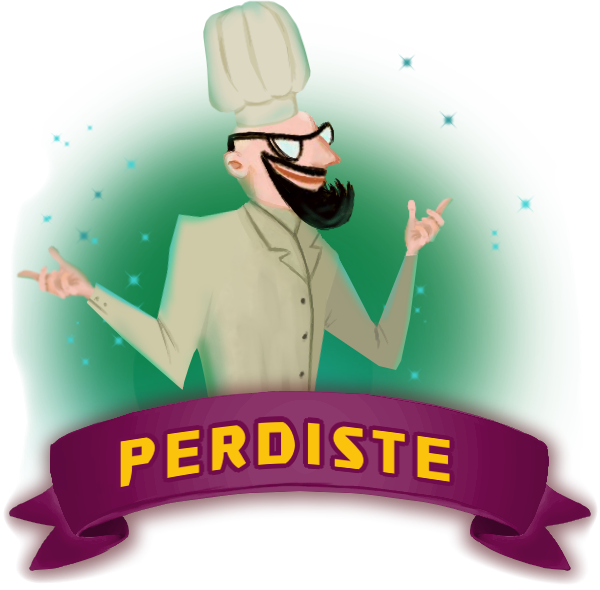
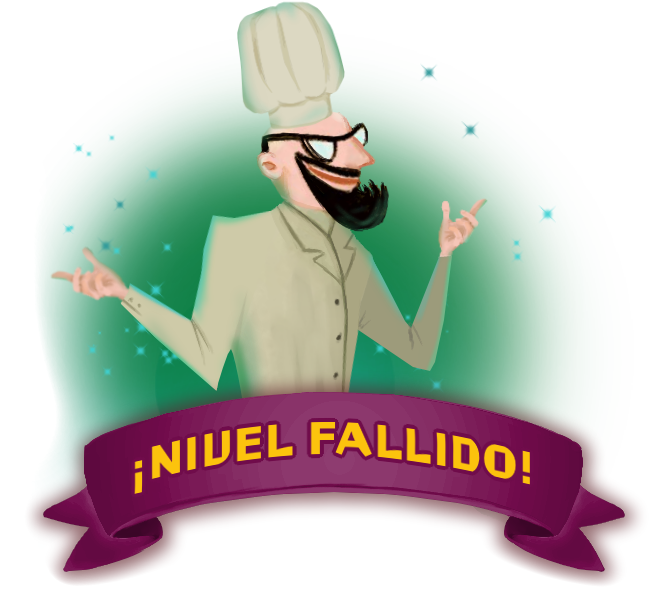
idiomas

diff --git a/Scene7a.js b/Scene7a.js
@@ -7,7 +7,40 @@ class Scene7a extends Phaser.Scene {
         var Transparencia = this.add.image(400, 300, "transparencia");
 
             this.add.image(640, 490, 'menuPausa').setScale(.7).setInteractive({cursor: 'context-menu'})
-            this.add.image(640, 180, 'tituloNivelPerdido').setScale(.6)
+            
+            var menuPrincipal = this.add.image(645, 580, 'botonReintentar1').setScale(.6)
+            var menuPrincipal2 = this.add.image(645, 580, 'botonReintentar2').setScale(.6)
+            
+            var botonReintentar1 = this.add.image(643, 510, 'botonReintentar1').setScale(.6)
+            var botonReintentar2 = this.add.image(643, 510, 'botonReintentar2').setScale(.6)
+           
+
+
+            if (idioma === 1)
+            {
+                this.add.image(640, 180, 'tituloNivelPerdido').setScale(0.7)
+                scorefinaltext = this.add.text(560, 425, "Puntos " + score, { fontSize: '40px', fill: '#02854F', fontFamily: 'Boogaloo'});
+                text = this.add.text(581, 570, "MENÚ PRINCIPAL", { fontSize: '20px', fill: '#6F0C49', fontFamily: 'BOOGALOO'})
+                text = this.add.text(595, 500, "REINTENTAR", { fontSize: '20px', fill: '#6F0C49', fontFamily: 'Boogaloo'})
+                text = this.add.text(598, 640, "NIVEL " + nivel, { fontSize: '25px', fill: '#F6DB9D', fontFamily: 'Boogaloo'})
+            };
+            if (idioma === 2)
+            {
+                this.add.image(640, 180, 'tituloNivelPerdidoEN').setScale(0.7)
+                scorefinaltext = this.add.text(560, 425, "Points " + score, { fontSize: '40px', fill: '#02854F', fontFamily: 'Boogaloo'});
+                text = this.add.text(581, 570, "MAIN MENU", { fontSize: '20px', fill: '#6F0C49', fontFamily: 'BOOGALOO'})
+                text = this.add.text(595, 500, "TRY AGAIN", { fontSize: '20px', fill: '#6F0C49', fontFamily: 'Boogaloo'})
+                text = this.add.text(598, 640, "LEVEL " + nivel, { fontSize: '25px', fill: '#F6DB9D', fontFamily: 'Boogaloo'})
+            }
+            if (idioma === 3)
+            {
+                this.add.image(640, 180, 'tituloNivelPerdidoBR').setScale(0.7)
+                scorefinaltext = this.add.text(560, 425, "Pontos " + score, { fontSize: '40px', fill: '#02854F', fontFamily: 'Boogaloo'});
+                text = this.add.text(581, 570, "MENU PRINCIPAL", { fontSize: '20px', fill: '#6F0C49', fontFamily: 'BOOGALOO'})
+                text = this.add.text(580, 500, "TENTE NOVAMENTE", { fontSize: '20px', fill: '#6F0C49', fontFamily: 'Boogaloo'})
+                text = this.add.text(598, 640, "NÍVEL " + nivel, { fontSize: '25px', fill: '#F6DB9D', fontFamily: 'Boogaloo'})
+            }
+
            
             if (perder === 0){
                 this.add.image(525, 365, 'EstrellaPrendida').setScale(.6)
@@ -26,14 +59,12 @@ class Scene7a extends Phaser.Scene {
             }
 
 
-            scorefinaltext = this.add.text(560, 425, "Puntos " + score, { fontSize: '40px', fill: '#02854F', fontFamily: 'Boogaloo'});
+            
+
             Musicagame.stop();   
             perdersonido = this.sound.add("perdersonido", {loop: false});
             perdersonido.play();
-            var botonReintentar1 = this.add.image(643, 510, 'botonReintentar1').setScale(.6)
-            var botonReintentar2 = this.add.image(643, 510, 'botonReintentar2').setScale(.6)
-            text = this.add.text(595, 500, "REINTENTAR", { fontSize: '20px', fill: '#6F0C49', fontFamily: 'Boogaloo'})
-            text = this.add.text(598, 640, "NIVEL " + nivel, { fontSize: '25px', fill: '#F6DB9D', fontFamily: 'Boogaloo'})
+            
 
             botonReintentar2.setVisible(false);
             botonReintentar1.setInteractive();
@@ -56,9 +87,7 @@ class Scene7a extends Phaser.Scene {
 
     } );
         
-        var menuPrincipal = this.add.image(645, 580, 'botonReintentar1').setScale(.6)
-        var menuPrincipal2 = this.add.image(645, 580, 'botonReintentar2').setScale(.6)
-        text = this.add.text(581, 570, "MENÚ PRINCIPAL", { fontSize: '20px', fill: '#6F0C49', fontFamily: 'BOOGALOO'})
+        
 
         menuPrincipal2.setVisible(false);
         menuPrincipal.setInteractive()

diff --git a/Scene6.js b/Scene6.js
@@ -7,7 +7,41 @@ class Scene6 extends Phaser.Scene {
         var Transparencia = this.add.image(400, 300, "transparencia");
 
         this.add.image(640, 490, 'menuPausa').setScale(.7).setInteractive({cursor: 'context-menu'})
-        this.add.image(640, 180, 'tituloGanaste').setScale(.7)
+       
+
+        var botonReiniciar1 = this.add.image(643, 510, 'botonReiniciar1').setScale(.6)
+        var botonReiniciar2 = this.add.image(643, 510, 'botonReiniciar2').setScale(.6)
+        
+        var menuPrincipal = this.add.image(645, 580, 'botonReiniciar1').setScale(.6)
+        var menuPrincipal2 = this.add.image(645, 580, 'botonReiniciar2').setScale(.6)
+        
+
+        if (idioma === 1)
+        {
+            this.add.image(640, 180, 'tituloGanaste').setScale(.7)
+            scorefinaltext = this.add.text(560, 425, "Puntos " + score, { fontSize: '40px', fill: '#02854F', fontFamily: 'Boogaloo'});
+            text = this.add.text(579, 500, "SIGUIENTE NIVEL", { fontSize: '20px', fill: '#6F0C49', fontFamily: 'Boogaloo'})
+            text = this.add.text(600, 640, "NIVEL " + nivel, { fontSize: '25px', fill: '#F6DB9D', fontFamily: 'Boogaloo'})
+            text = this.add.text(580, 570, "MENÚ PRINCIPAL", { fontSize: '20px', fill: '#6F0C49', fontFamily: 'BOOGALOO'})
+        };
+        if (idioma === 2)
+        {
+            this.add.image(640, 180, 'tituloGanasteEN').setScale(.7)
+            scorefinaltext = this.add.text(560, 425, "Points " + score, { fontSize: '40px', fill: '#02854F', fontFamily: 'Boogaloo'});
+            text = this.add.text(579, 500, "NEXT LEVEL", { fontSize: '20px', fill: '#6F0C49', fontFamily: 'Boogaloo'})
+            text = this.add.text(600, 640, "LEVEL " + nivel, { fontSize: '25px', fill: '#F6DB9D', fontFamily: 'Boogaloo'})
+            text = this.add.text(580, 570, "MAIN MENU", { fontSize: '20px', fill: '#6F0C49', fontFamily: 'BOOGALOO'})
+        }
+        if (idioma === 3)
+        {
+            this.add.image(640, 180, 'tituloGanasteBR').setScale(.7)
+            scorefinaltext = this.add.text(560, 425, "Pontos " + score, { fontSize: '40px', fill: '#02854F', fontFamily: 'Boogaloo'});
+            text = this.add.text(579, 500, "PRÓXIMO NÍVEL", { fontSize: '20px', fill: '#6F0C49', fontFamily: 'Boogaloo'})
+            text = this.add.text(600, 640, "NÍVEL " + nivel, { fontSize: '25px', fill: '#F6DB9D', fontFamily: 'Boogaloo'})
+            text = this.add.text(580, 570, "MENU PRINCIPAL", { fontSize: '20px', fill: '#6F0C49', fontFamily: 'BOOGALOO'})
+        }
+
+
         if (perder === 0){
             this.add.image(525, 365, 'EstrellaPrendida').setScale(.6)
             this.add.image(640, 375, 'EstrellaPrendida').setScale(.8)
@@ -23,14 +57,11 @@ class Scene6 extends Phaser.Scene {
             this.add.image(640, 375, 'EstrellaPrendida').setScale(.8)
             this.add.image(755, 365, 'EstrellaApagada').setScale(.6)
         }
-        scorefinaltext = this.add.text(560, 425, "Puntos " + score, { fontSize: '40px', fill: '#02854F', fontFamily: 'Boogaloo'});
+        
         Musicagame.stop();    
         ganarsonido = this.sound.add("ganarsonido", {loop: false});
         ganarsonido.play();   
-        var botonReiniciar1 = this.add.image(643, 510, 'botonReiniciar1').setScale(.6)
-        var botonReiniciar2 = this.add.image(643, 510, 'botonReiniciar2').setScale(.6)
-        text = this.add.text(579, 500, "SIGUIENTE NIVEL", { fontSize: '20px', fill: '#6F0C49', fontFamily: 'Boogaloo'})
-        text = this.add.text(600, 640, "NIVEL " + nivel, { fontSize: '25px', fill: '#F6DB9D', fontFamily: 'Boogaloo'})
+        
         botonReiniciar2.setVisible(false)
         botonReiniciar1.setInteractive()
         botonReiniciar1.on('pointerdown', () => {
@@ -73,9 +104,7 @@ class Scene6 extends Phaser.Scene {
         
 } );
     
-    var menuPrincipal = this.add.image(645, 580, 'botonReiniciar1').setScale(.6)
-    var menuPrincipal2 = this.add.image(645, 580, 'botonReiniciar2').setScale(.6)
-    text = this.add.text(580, 570, "MENÚ PRINCIPAL", { fontSize: '20px', fill: '#6F0C49', fontFamily: 'BOOGALOO'})
+    
 
     menuPrincipal2.setVisible(false);
     menuPrincipal.setInteractive()

diff --git a/Scene5.js b/Scene5.js
@@ -7,15 +7,33 @@ create() {
   var Transparencia = this.add.image(400, 300, "transparencia");
 
    var menuPausa = this.add.image(640, 470, 'fondoPausa').setScale(.65).setInteractive({cursor: 'context-menu'})
-    this.add.image(640, 200, 'tituloPausa').setScale(.7)
-
-        //var tituloPausa = this.add.image(640, 190, 'tituloPausa').setScale(0.8)
-   
-   // this.add.image(640, 90, 'botonAyuda1').setScale(.9)
+    
    var reanudarPausa = this.add.image(645, 400, 'botonReiniciar1').setScale(.6)
    var reanudarPausa2 =  this.add.image(645, 400, 'botonReiniciar2').setScale(.6)
+   var menuPrincipal =  this.add.image(645, 480, 'botonReiniciar1').setScale(.6)
+   var menuPrincipal2 =   this.add.image(645, 480, 'botonReiniciar2').setScale(.6)
+  
 
-   text = this.add.text(600, 390, "REANUDAR", { fontSize: '20px', fill: '#6F0C49', fontFamily: 'BOOGALOO'})
+   var text;
+        if (idioma === 1)
+        {
+            this.add.image(640, 200, 'tituloPausa').setScale(0.7)
+            text = this.add.text(600, 390, "REANUDAR", { fontSize: '20px', fill: '#6F0C49', fontFamily: 'BOOGALOO'})
+            text = this.add.text(575, 470, "MENÚ PRINCIPAL", { fontSize: '20px', fill: '#6F0C49', fontFamily: 'BOOGALOO'})
+        };
+        if (idioma === 2)
+        {
+            this.add.image(640, 200, 'tituloPausaEN').setScale(0.7)
+            text = this.add.text(600, 390, "RESUME", { fontSize: '20px', fill: '#6F0C49', fontFamily: 'BOOGALOO'})
+            text = this.add.text(575, 470, "MAIN MENU", { fontSize: '20px', fill: '#6F0C49', fontFamily: 'BOOGALOO'})
+        }
+        if (idioma === 3)
+        {
+            this.add.image(640, 200, 'tituloPausa').setScale(0.7)
+            text = this.add.text(600, 390, "RETOMAR", { fontSize: '20px', fill: '#6F0C49', fontFamily: 'BOOGALOO'})
+            text = this.add.text(575, 470, "MENU PRINCIPAL", { fontSize: '20px', fill: '#6F0C49', fontFamily: 'BOOGALOO'})
+        }
+  
     reanudarPausa2.setVisible(false)
             reanudarPausa.setInteractive()
             reanudarPausa.on('pointerdown', () => {
@@ -120,9 +138,7 @@ create() {
 
 
 
-            var menuPrincipal =  this.add.image(645, 480, 'botonReiniciar1').setScale(.6)
-            var menuPrincipal2 =   this.add.image(645, 480, 'botonReiniciar2').setScale(.6)
-            text = this.add.text(575, 470, "MENÚ PRINCIPAL", { fontSize: '20px', fill: '#6F0C49', fontFamily: 'BOOGALOO'})
+            
 
 
             menuPrincipal2.setVisible(false)

diff --git a/Scene1.js b/Scene1.js
@@ -156,14 +156,19 @@ class Scene1 extends Phaser.Scene {
       
       //ganaste o perdiste
       this.load.image('tituloGanaste' , 'assets/nivelsuperado1.png ');
+      this.load.image('tituloGanasteBR' , 'assets/nivelsuperado1BR.png ');
+      this.load.image('tituloGanasteEN' , 'assets/nivelsuperado1EN.png ');
       this.load.image('tituloGanastefinal' , 'assets/Ganaste.png ');
       this.load.image('tituloPausa' , 'assets/menu_pausa-2.png');
+      this.load.image('tituloPausaEN' , 'assets/menu_pausa-2EN.png');
       this.load.image('fondoPausa' , 'assets/fondomenus.png');
       this.load.image('botonReiniciar1' , 'assets/boton1.png ');
       this.load.image('botonReiniciar2' , 'assets/boton2.png ');
       
       //no reutilizables
       this.load.image('tituloNivelPerdido' , 'assets/Nivelperdiste.png ');
+      this.load.image('tituloNivelPerdidoBR' , 'assets/NivelperdisteBR.png ');
+      this.load.image('tituloNivelPerdidoEN' , 'assets/NivelperdisteEN.png ');
       this.load.image('botonReintentar1' , 'assets/boton1.png ');
       this.load.image('EstrellaApagada' , 'assets/EstrellaApagada.png')
       this.load.image('botonReintentar2' , 'assets/boton2.png ');
@@ -176,6 +181,9 @@ class Scene1 extends Phaser.Scene {
       this.load.image('tutorial', 'assets/Preguntatuto.png');
       this.load.image('tutosi', 'assets/Situto.png');
       this.load.image('tutono', 'assets/Notuto.png');
+      this.load.image('tuto1', 'assets/botonchico1.png');
+      this.load.image('tuto2', 'assets/botonchico2.png');
+
       this.load.image('pantallatuto', 'assets/Pantallatuto.jpg');
       this.load.image('atras1', 'assets/atras1.png');
       this.load.image('atras2', 'assets/atras2.png');
